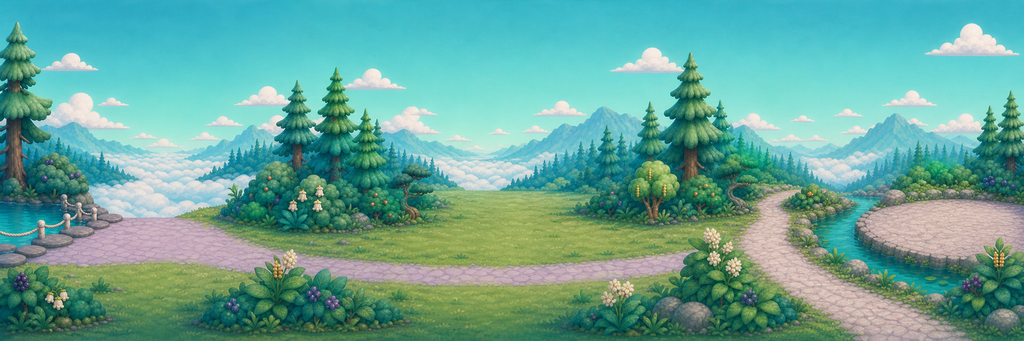
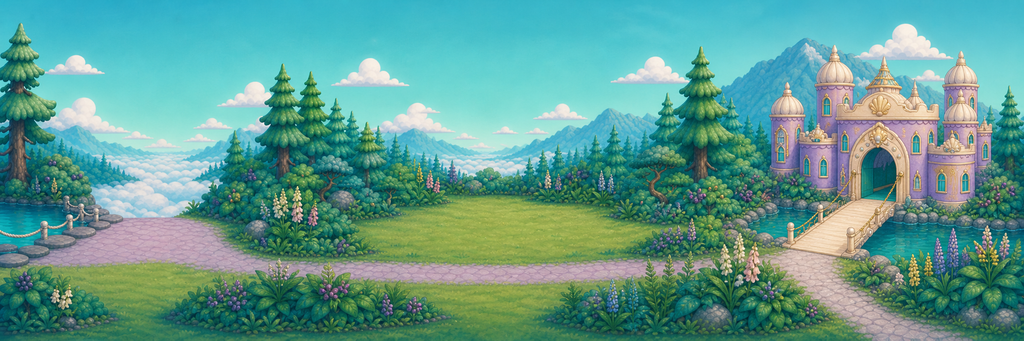
Clarify Sky Lagoon playground and castle destination

diff --git a/ASSET_LICENSES.md b/ASSET_LICENSES.md
@@ -376,11 +376,12 @@ ambientCG (all CC0).
   Sprite3D card while the source character art remains unchanged.
 - `assets/flats/sky_lagoon/main/flat_sky_lagoon_main_panorama.png` —
   project-original OpenAI image generation; one uninterrupted 3:1 PNW
-  panorama flowing from the blocked-water runway shore, through the meadow,
-  to the castle drawbridge terrace and moat; generated from the three earlier
-  screen concepts plus the project PNW tree/shrub sheets, then resized to
-  1024px. The three earlier panel files were removed after this continuous
-  master replaced them.
+  panorama flowing from the blocked-water runway shore, through a bounded
+  playground meadow with no false path branch, to a prominent pearl castle
+  and drawbridge backed by layered PNW mountains; regenerated from the prior
+  continuous panorama and project PNW tree/shrub style references with added
+  native flora, then resized to 1024px. The three earlier panel files were
+  removed after this continuous master replaced them.
 - Style references for every new asset: project-owned
   `sky_lagoon_pnw_tree_prototypes_flat_2026-07-21.png` and
   `sky_lagoon_pnw_shrub_variants_flat_2026-07-21.png`; no external assets.
